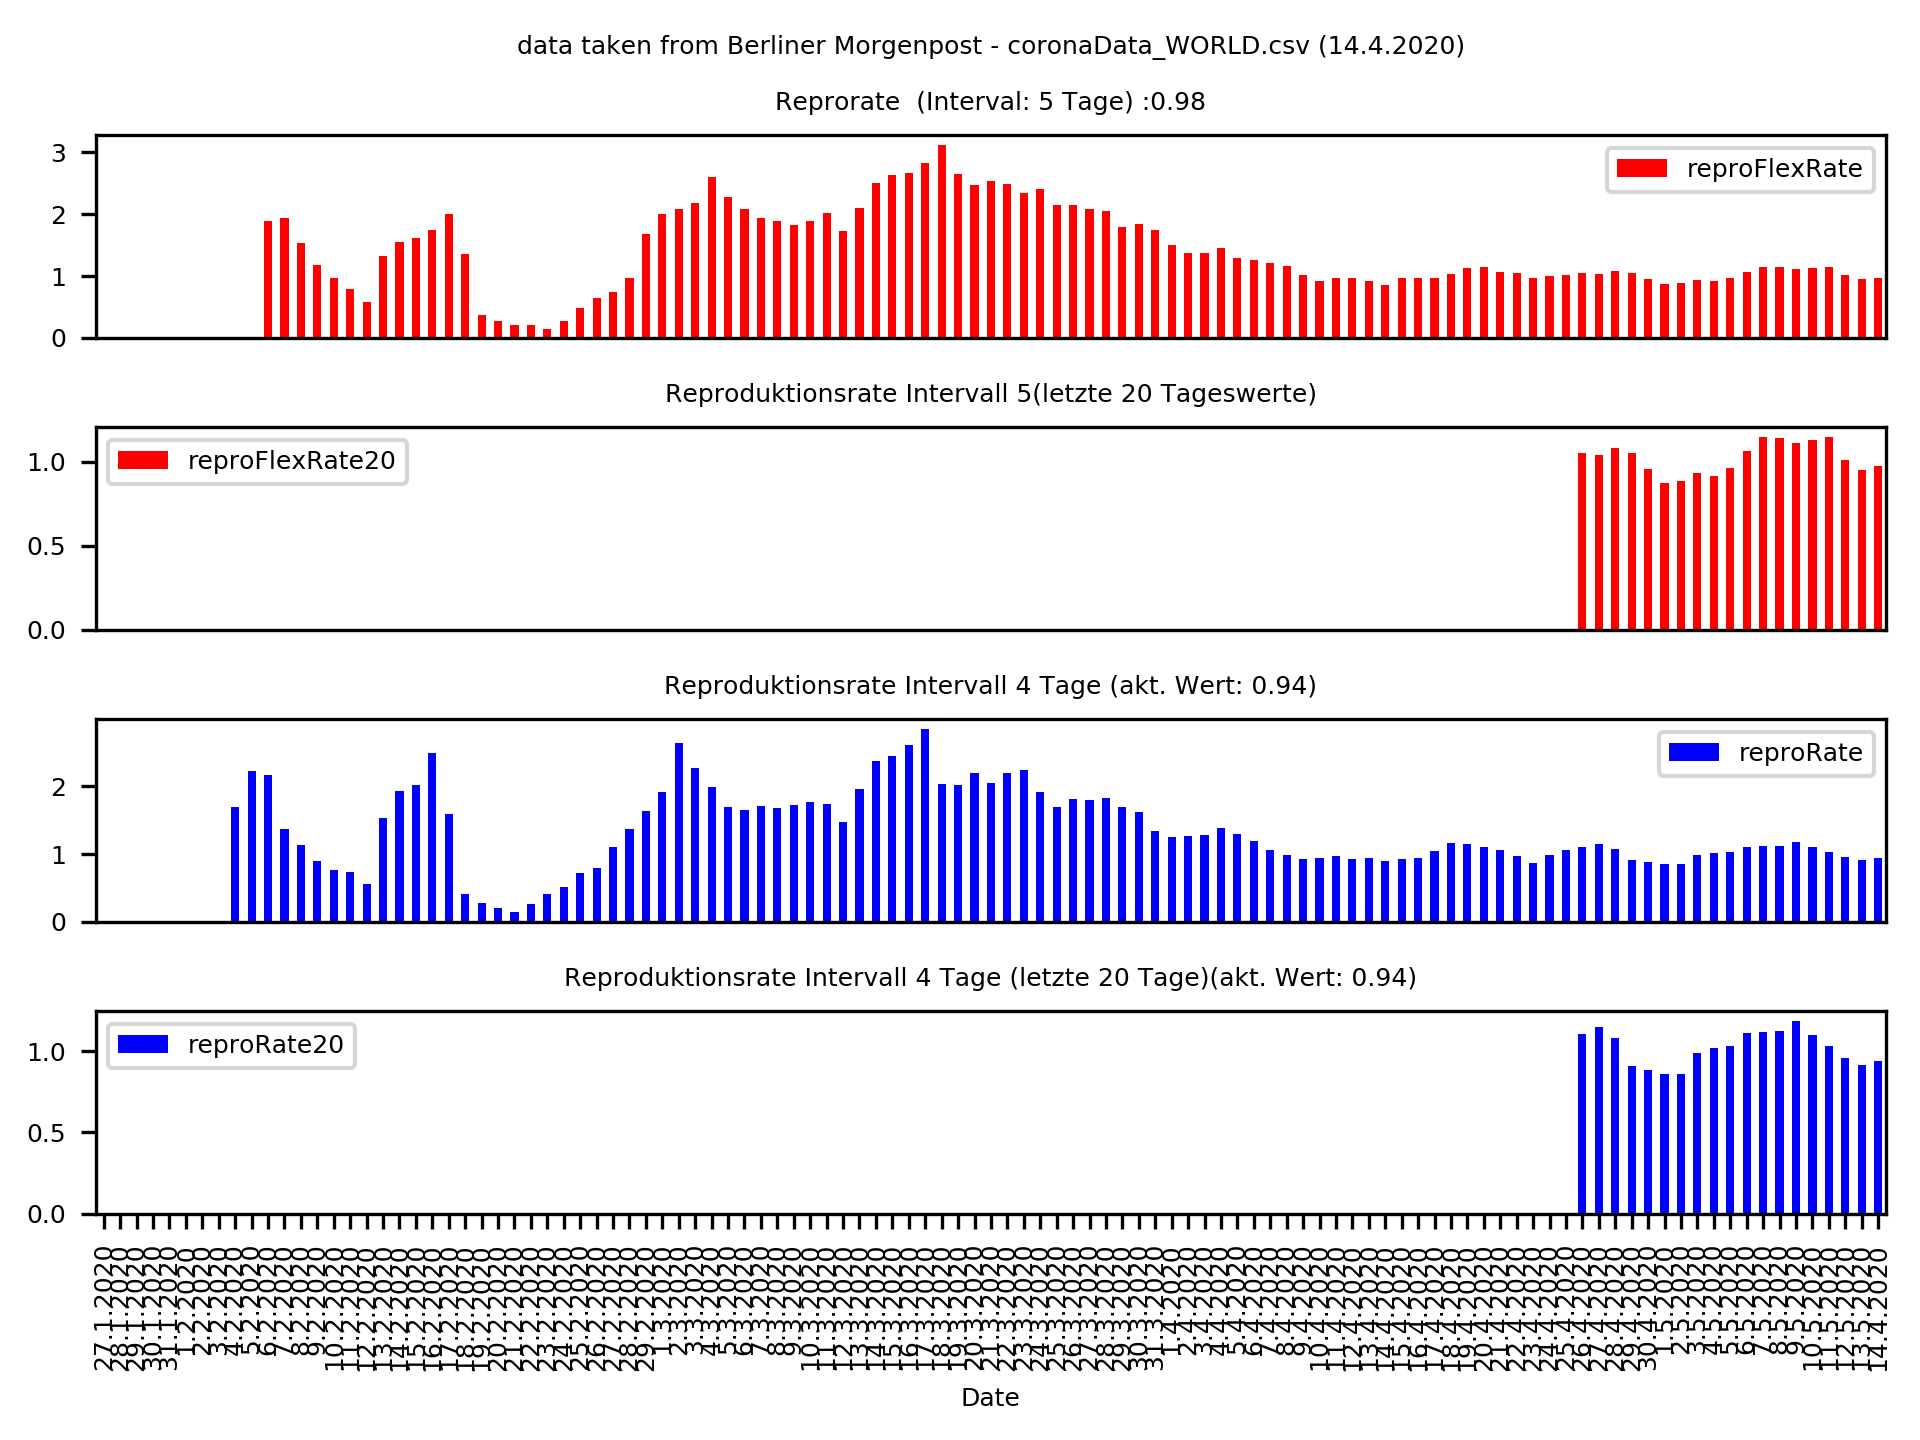
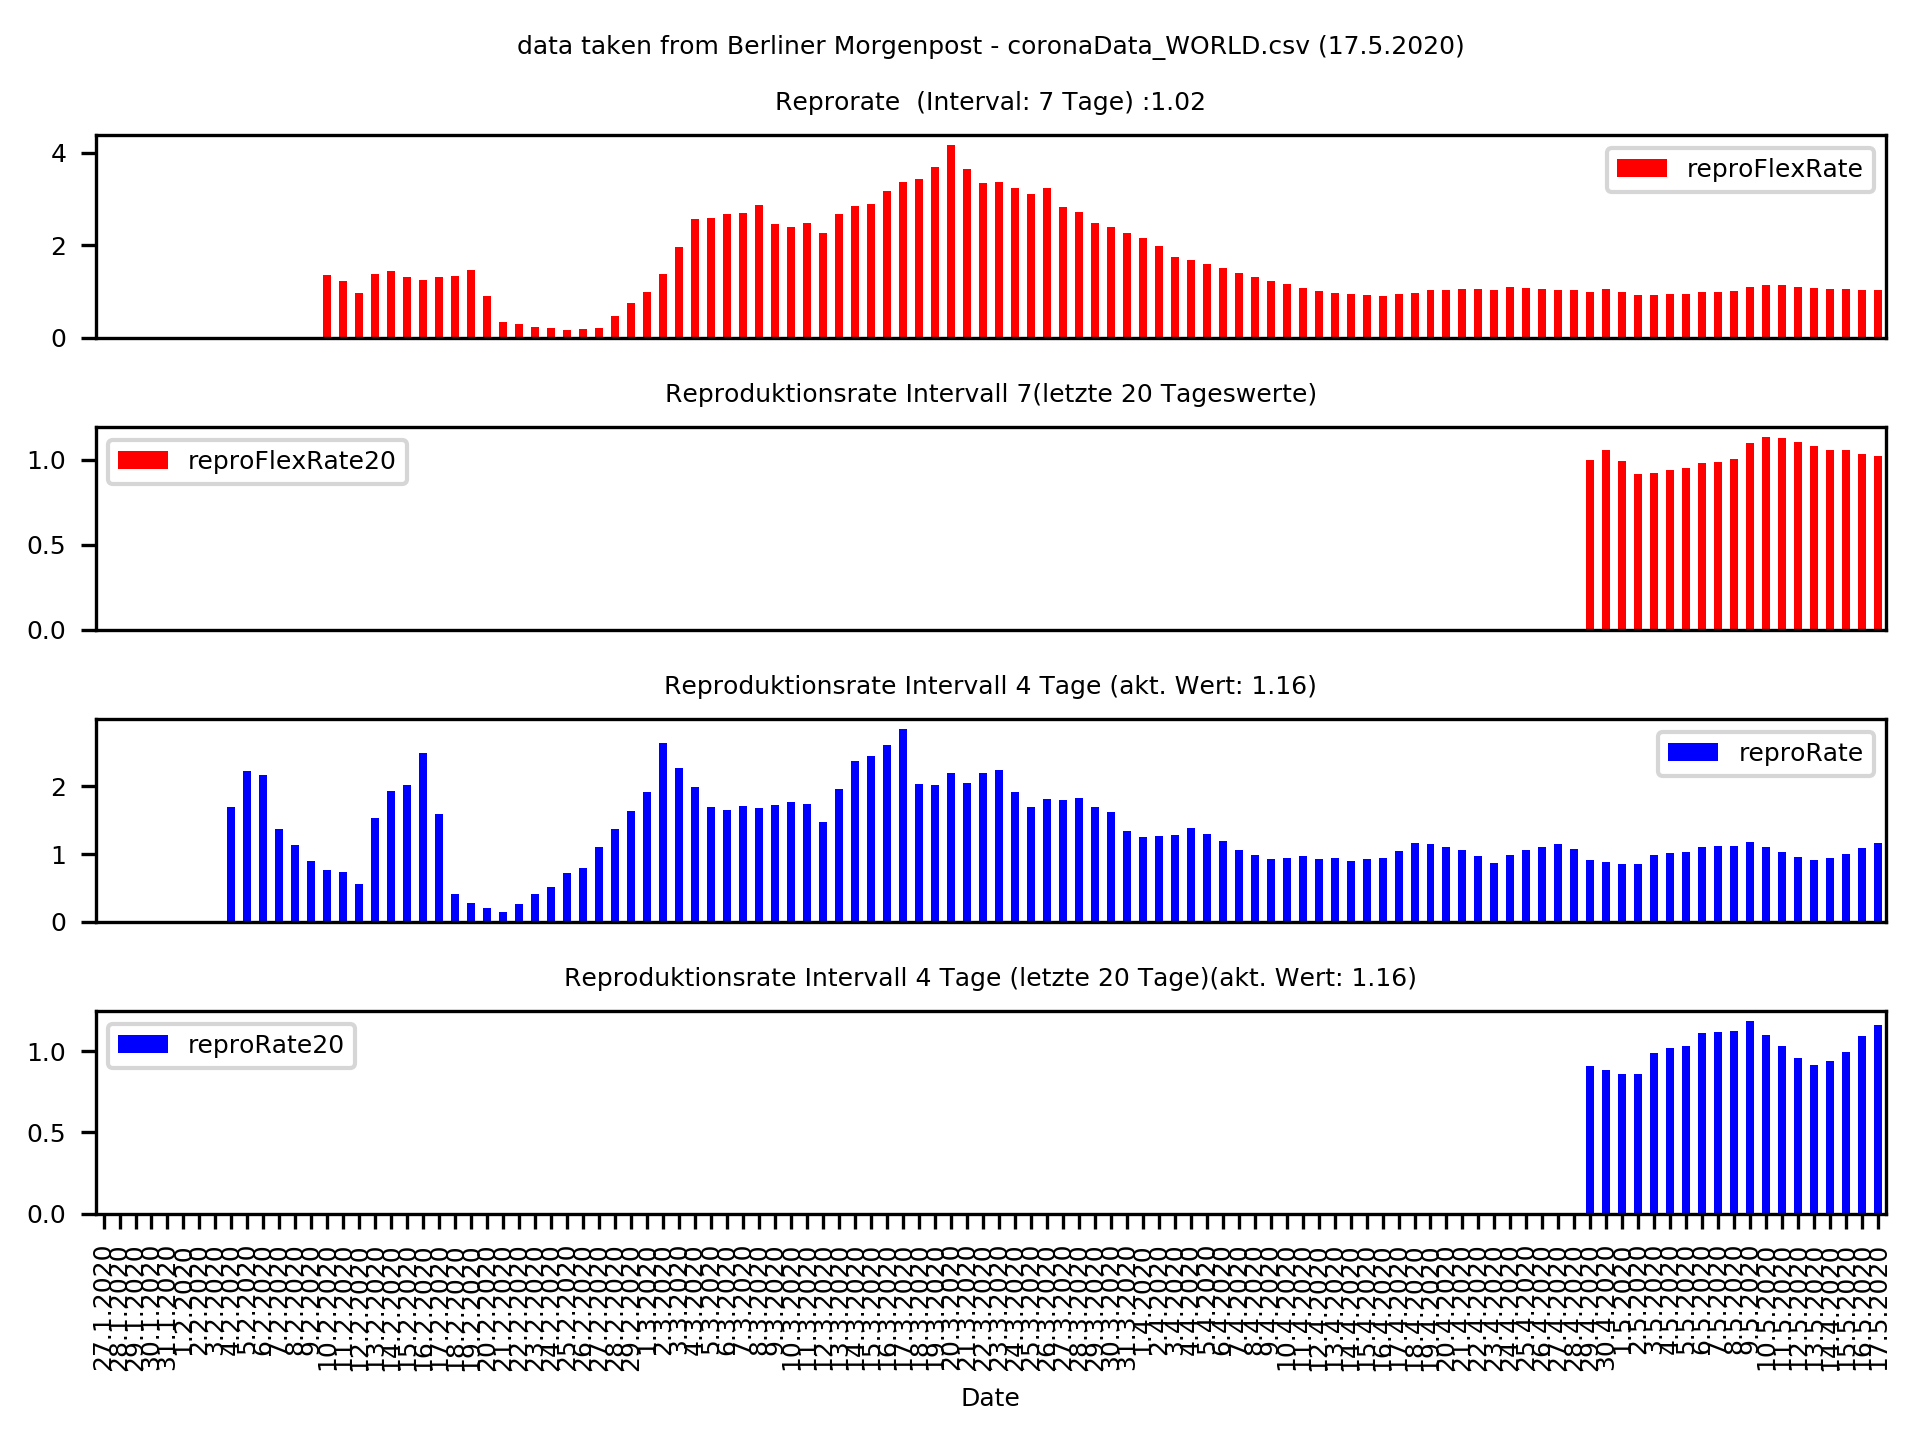
new data

diff --git a/report.py b/report.py
@@ -5,7 +5,7 @@ import matplotlib.pyplot as plt
 localSuffixes = ["BW", "BY", "GER", "WORLD", "US"]
 
 # flexinterval
-flexInt = 5
+flexInt = 7
 
 for localSuffix in localSuffixes:
     print (f"------ processing {localSuffix} -----\n")
